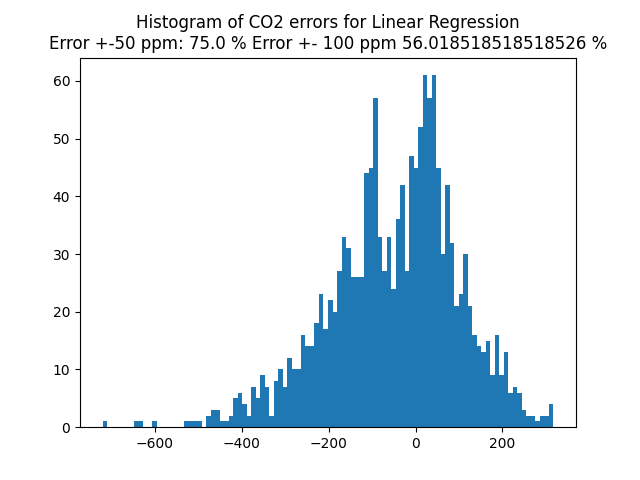
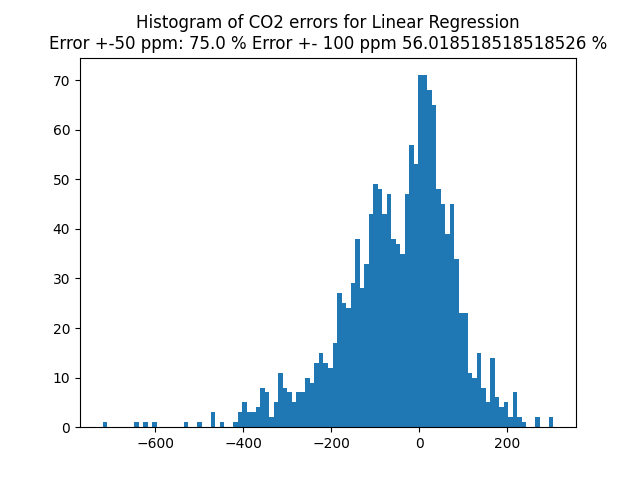
Ahhh

diff --git a/Functions.py b/Functions.py
@@ -340,16 +340,16 @@ def load_davide(save_filename=None, train_night_only=False, filepath_plots='docu
     plt.hist(errors_co2, bins=100)
     plt.title(
         f'Histogram of CO2 errors in the office for MB\nError 50 ppm {round(proportion_50_co2, 4) * 100} % Error 100 ppm {round(proportion_100_co2, 4) * 100} %')
-    plt.savefig(filepath_plots + 'hist_co2')
+    plt.savefig(filepath_plots + '/davide_hist_co2.png')
     plt.show()
 
+    N_est = np.array(N_est)
+    N_flat = np.array(N_flat)
     plot_estimates(C_flat, C_est, N_flat, N_est, dt=dt, save_filename=save_filename,
                    title=f"CO2 prediction and occupancy detection in Davide's office\nAverage CO2 Error: {error_c[1]}"
                          f"\nProportion N error: {round(sum(N_est == N_flat)/len(N_flat),3)}",
                    legend_bar=['N True', 'N estimated'], legend_plot=['CO2 True', 'CO2 simulated'])
 
-    N_est = np.array(N_est)
-    N_flat = np.array(N_flat)
     print(f'Accuracy total: {round(sum(N_est == N_flat)/len(N_flat),3)}\n'
           f'Accuracy when present: {round(sum((N_est == N_flat)[N_flat == 1])/sum(N_flat == 1),3)}\n'
           f'Accuracy when not present: {round(sum((N_est == N_flat)[N_flat == 0])/sum(N_flat == 0),3)}\n')
@@ -660,10 +660,10 @@ def residual_analysis(dd_list, N_list, E_list, E_list_reg, filepath_plots='docum
         if plot:
             if C_est and N_est:
                 print(f'plotting {dev_id}..')
-                plot_estimates(C, C_est, N, errors_N, title=f'All errors for zone {dev_id} Mass Balance',
+                plot_estimates(C, C_est, N, EBD_N[dev_id], title=f'All errors for zone {dev_id} Mass Balance',
                                x_vals=range(len(N)), width=0.5, x_label='Time steps',
                                save_filename=filepath_plots + f'All_errors_MB_{dev_id}')
-                plot_estimates(C, C_est_reg, N, errors_N_reg, title=f'All errors for zone {dev_id} Linear Regression',
+                plot_estimates(C, C_est_reg, N, EBD_N_reg[dev_id], title=f'All errors for zone {dev_id} Linear Regression',
                                x_vals=range(len(N)), width=0.5, x_label='Time steps',
                                save_filename=filepath_plots + f'All_errors_LR_{dev_id}')
         dev_id += 1

diff --git a/constants.py b/constants.py
@@ -13,8 +13,8 @@ n_map = {0: [], 1: [2, 10], 2: [1, 3], 3: [2, 4], 4: [2, 5], 5: [4, 6], 6: [5, 7
          }
 ppm_factor = 1
 #         Q_adj        Q_out    C_out        m in mg/s (11*24.45/44.01, 11.1*24.45/44.01)
-bounds = ((0, 2/(60*60)), (0, 4/(60*60)), (300/ppm_factor, 500/ppm_factor), (11*24.45/44.01, 11.1*24.45/44.01))
-bounds_davide = ((0, 2/(60*60)), (0, .25/(60*60)), (300/ppm_factor, 500/ppm_factor), (6*24.45/44.01, 11.1*24.45/44.01))
+bounds = ((0, 2/(60*60)), (0, 4/(60*60)), (300/ppm_factor, 500/ppm_factor), (8*24.45/44.01, 11.1*24.45/44.01))
+bounds_davide = ((0, 2/(60*60)), (0, .25/(60*60)), (300/ppm_factor, 500/ppm_factor), (5*24.45/44.01, 11.1*24.45/44.01))
 # V in m^3:
 V = np.array([0, 0, 0, 0, 0, 0, 0, 0, 0, 0, 0, 0, 0, 0, 0, 0, 0, 0, 0, 0, 0,
               11.5 * 14.6, 10.2 * 11.5, 8.8 * 14.2, 8.8 * 14.8, 9.2 * 11.3, 15.5 * 11.6, 4.8 * 28]) * 3 #* 1000
